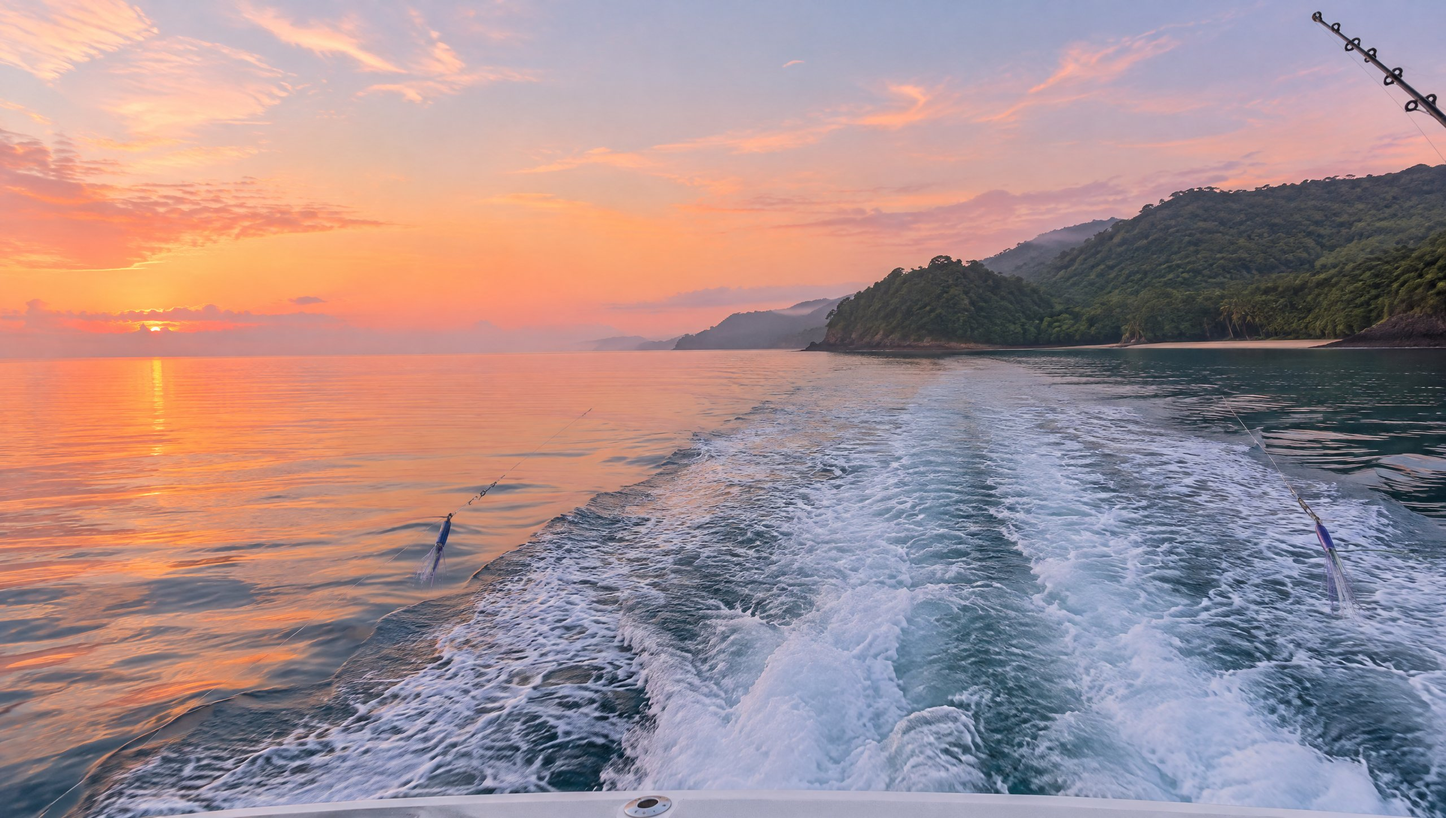
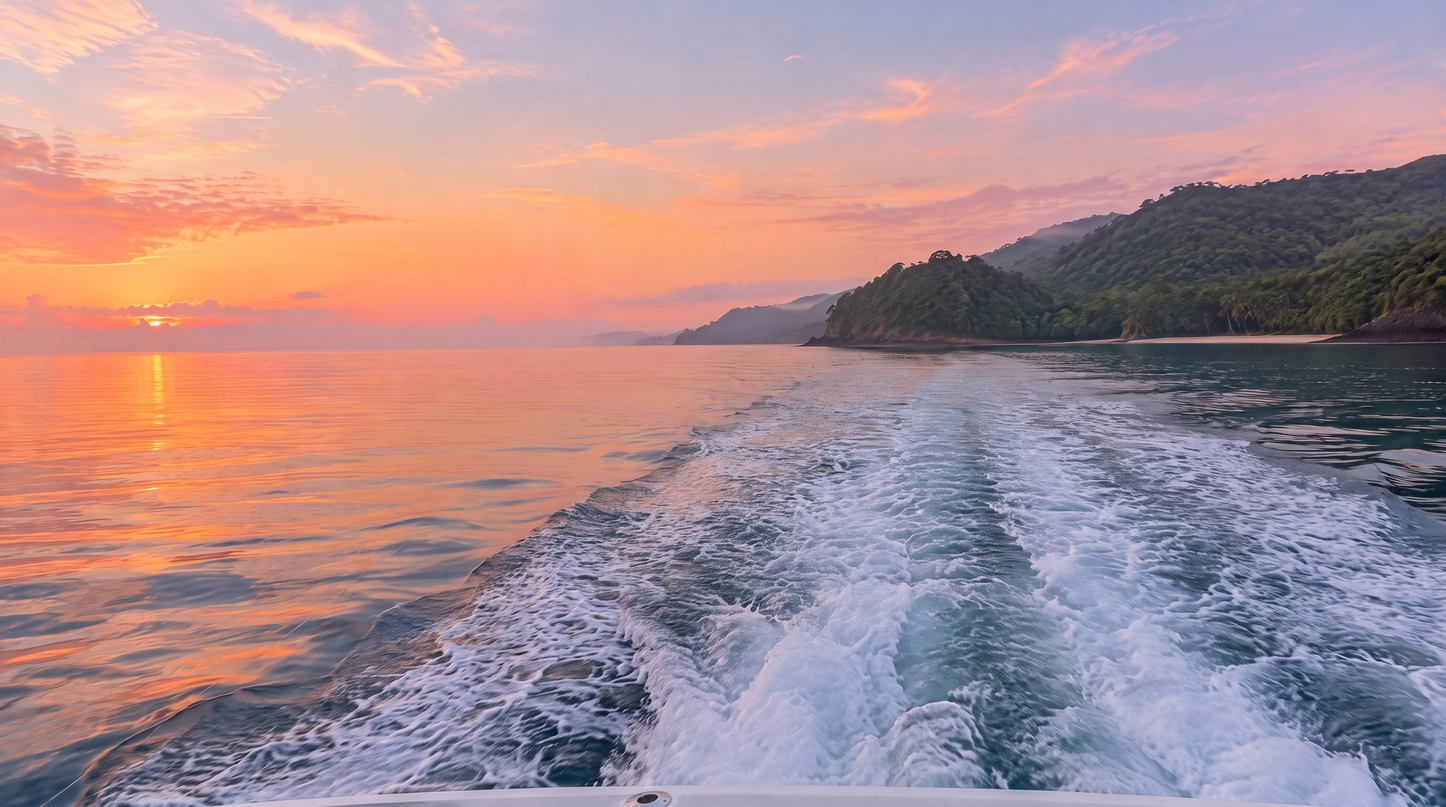
First day header: remove AI lures and rod tip

diff --git a/first-time-offshore.html b/first-time-offshore.html
@@ -84,7 +84,7 @@
 
   <!-- ============ HERO ============ -->
   <header class="pg-hero">
-    <div class="pg-hero-media"><img src="assets/photos/head-firstday.jpg?v=1" alt="The wake at first light, heading out of the bay toward open water" fetchpriority="high" style="object-position:55% 50%;--mpos:65% 55%"></div>
+    <div class="pg-hero-media"><img src="assets/photos/head-firstday.jpg?v=2" alt="The wake at first light, heading out of the bay toward open water" fetchpriority="high" style="object-position:55% 50%;--mpos:65% 55%"></div>
     <div class="pg-hero-grade"></div>
     <div class="pg-hero-inner shell">
       <h1>Your first day offshore</h1>
